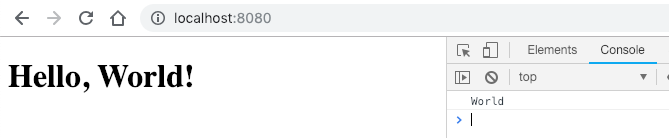
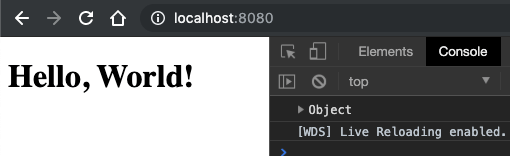
Updated getting-started-with-webpack-dev-server post to reflect change

diff --git a/src/pages/getting-started-with-webpack-dev-server/index.md b/src/pages/getting-started-with-webpack-dev-server/index.md
@@ -3,16 +3,19 @@ layout: post
 title: Getting started with Webpack Dev Server
 description: Webpack Dev Server is fantastic for quickly running and debugging Webpack based websites, thanks in part to its support for Hot Module Reloading (HMR)
 date: 2018-12-31
+updated: 2019-09-14
 categories: ['Webpack', 'webpack-intro-series']
 seriesTitle: Intro to Webpack mini series
 group: 'Software Development'
 ---
 
-So far, our application writes out to the console, which is not terribly helpful. Let's get something up and running in the browser before we configure our React code.
+Webpack Dev Server is a development time HTTP web server with built in support for Hot Module Reloading (HMR), which can help you rapidly build websites. HMR enables you to see your changes on screen much faster by enabling more incremental builds.
 
-To get our website up and running, we will need Webpack Dev Server, which is a simple HTTP server. We will also need a couple of plugins to make everything work properly.
+## How to set up Webpack Dev Server
 
-Start by creating an `index.html` file in `src` and add the following code;
+To use Webpack Dev Server, start as follows.
+
+Create a new file called `index.html` in your `src` directory and add the following code;
 
 ```html
 <!DOCTYPE html>
@@ -30,11 +33,22 @@ Start by creating an `index.html` file in `src` and add the following code;
 </html>
 ```
 
-Now we need to configure Webpack to inject the path to our JavaScript bundle directly into the HTML file for us, so we do not need to reference it directly. This is helpful because when running a production build, we do not know the name of the file that will be generated (remember, we used a random hash!).
+Now we need to configure Webpack to inject script tags for our JavaScript bundle. We need to do this because we probably will not know the name of our JavaScript file when doing production builds. Typically when generating a production build, our JavaScript file will have a random file name, for cache busting.
 
-To do this, we need to use `html-webpack-plugin`. Open `webpack.config.js` and add the following to the `plugins` section;
+To make this injection magic happen, we need to use `html-webpack-plugin`. Start by installing it using the NPM script below.
+
+```shell
+npm install --save-dev html-webpack-plugin html-loader
+```
+
+We need `html-loader` also so we can handle HTML files.
+
+Now open `webpack.config.js` and add the `HtmlWebPackPlugin` following to the `plugins` section;
 
 ```javascript
+const HtmlWebPackPlugin = require('html-webpack-plugin')
+const isDevelopment = process.env.NODE_ENV !== 'production'
+
 module.exports = {
   ///...
   plugins: [
@@ -48,19 +62,14 @@ module.exports = {
 }
 ```
 
-And we need to use another plugin called `html-loader`, to deal with any file that has a `.html` file extension.
-
-Run the following command to install both packages;
-
-```shell
-npm install --save-dev html-webpack-plugin html-loader
-```
-
 The last step is to tell Webpack that when it encounters HTML files, it should use the `html-loader` we just installed.
 
 Open `webpack.config.js` and add the following to `module` > `rules`;
 
 ```javascript
+const HtmlWebPackPlugin = require('html-webpack-plugin')
+const isDevelopment = process.env.NODE_ENV !== 'production'
+
 module.exports = {
   ///...
   module: {
@@ -89,14 +98,30 @@ Go to your `package.json` file and add the following NPM script, so we can now s
 "start": "cross-env NODE_ENV=development webpack-dev-server --config webpack.config.js"
 ```
 
-Run the command via the terminal and open your browser to `http://localhost:8080` and observe the result as shown;
+If your project does not already have `cross-env` installed, you can install it using the following command;
+
+```shell
+npm install --save-dev cross-env
+```
+
+`cross-env` makes using environment variables across different operating systems seamless.
+
+Run the `start` command on the terminal.
+
+```shell
+npm start
+```
+
+Then open your browser to `http://localhost:8080` and observe the result as shown;
 
 ![Webpack 4 Dev Server](webpack-4-dev-server.png)
 
-You should now see the **Hello World** header text is visible, meaning our HTML is working, and in the console we see **World** output, so we know our JavaScript is being loaded and executed.
+You should now see the **Hello World** header text is visible, meaning our HTML is working, and in the console we see **[WDS] Live Reloading enabled** output, so we know our JavaScript is being loaded and executed.
 
 ## Summary
 
 Configuring Webpack Dev Server is quick and easy. The only complication we encounter is getting the correct paths for our compiled assets (JavaScript in this case). This problem is easily solved using `html-webpack-plugin` and `html-loader`, which together take care of processing our HTML files and injecting `<script>` and `<style>` tags automatically at build time for us.
 
-Time to wire up our React application next.
+## Next steps
+
+If you would like to continue learning about Webpack, check out the next post in the [How to add Hot Module Reloading (HMR) to a React app](/webpack/how-to-add-hot-module-reloading-to-a-react-app/)
